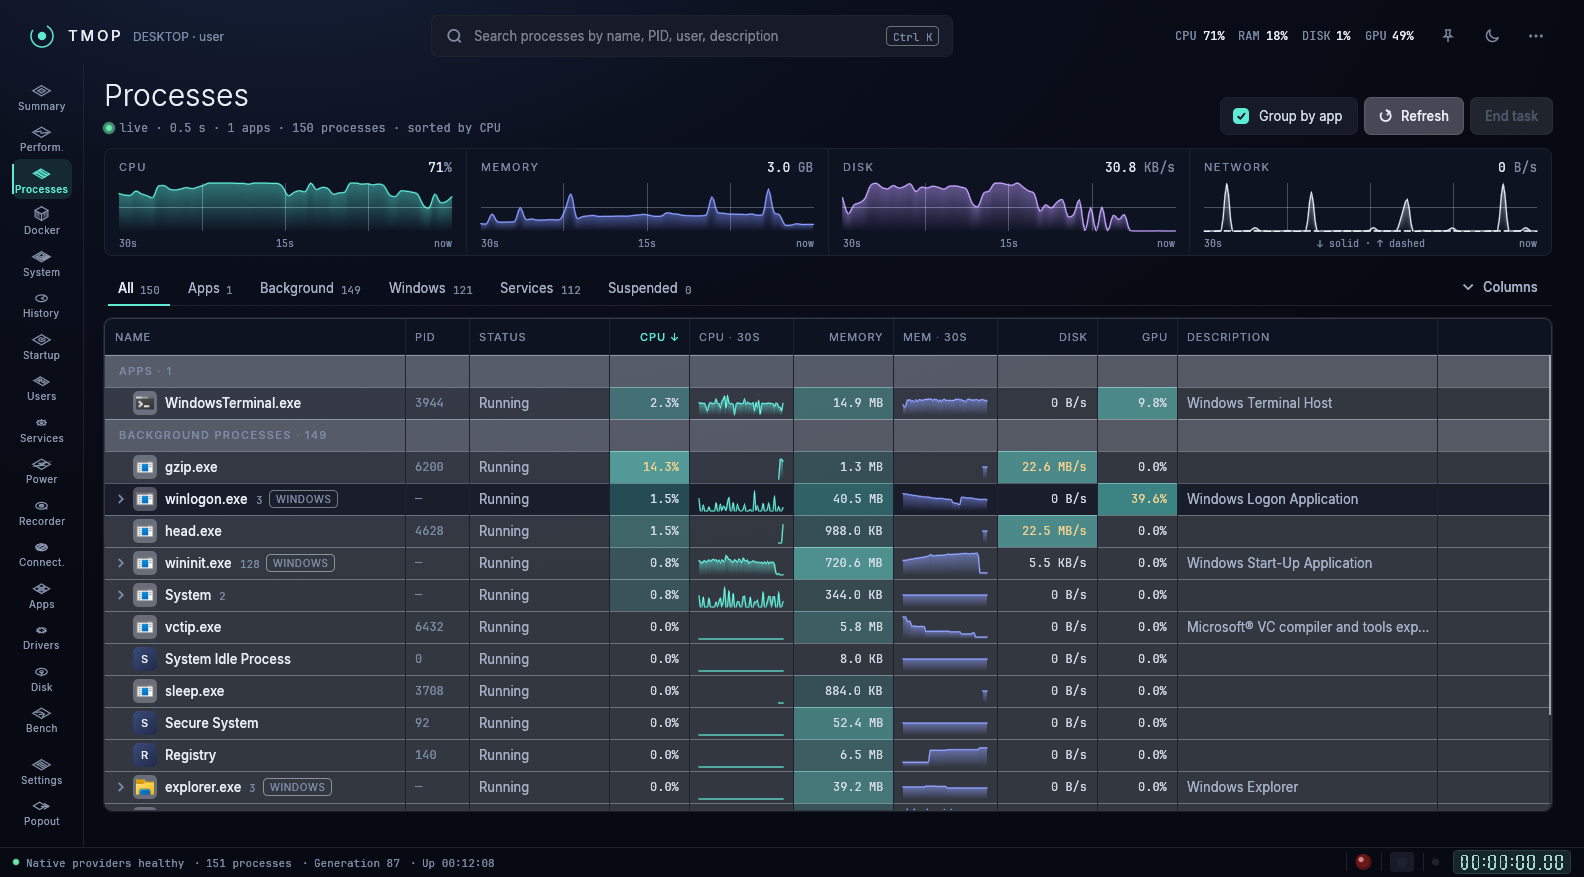
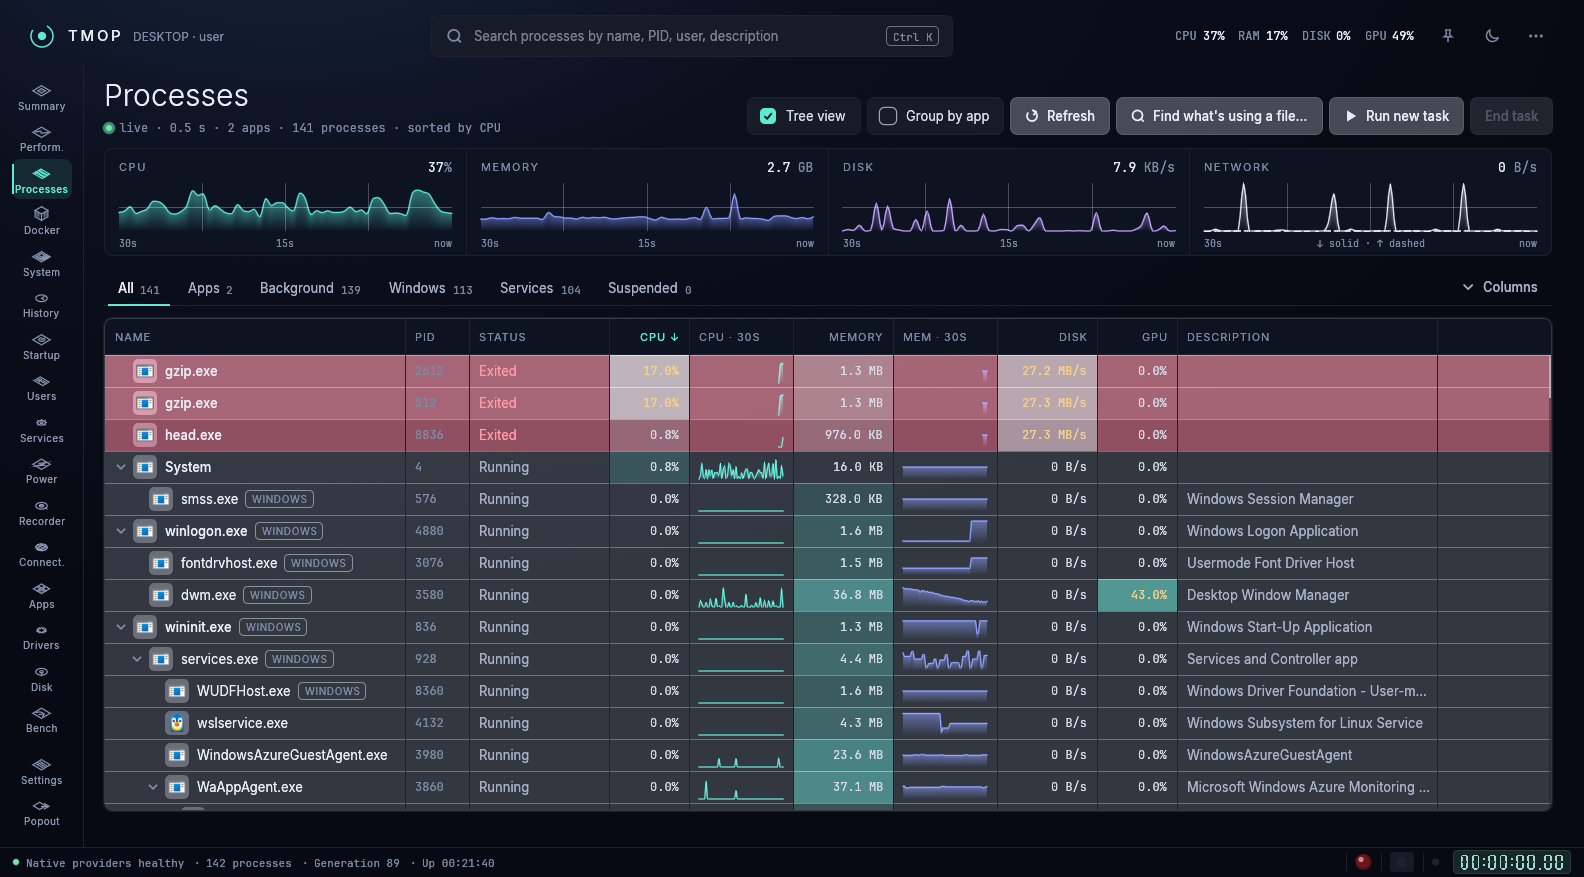
Docs: refreshed screenshots for 0.16 (tree view, Startup apps, Alerts)
Taken by the Screenshots workflow on GitHub runners (run 45043443056).
Closes #142

Claude-Session: https://claude.ai/code/session_015qfk8e8Kenbj2hUnEDBh3T

diff --git a/docs/index.html b/docs/index.html
@@ -445,7 +445,7 @@
           <div class="t"><h3>Watch performance live</h3><p>Graphs for every processor core, memory, disks, network and graphics card.</p></div>
         </div>
         <div class="feature">
-          <div class="img"><img src="screenshots/processes.png" loading="lazy" alt="List of running programs"></div>
+          <div class="img"><img src="screenshots/processes.png" loading="lazy" alt="Processes page in tree view with exited processes highlighted in red, plus Find what's using a file and Run new task buttons"></div>
           <div class="t"><h3>Find and close programs</h3><p>See what uses your PC. Right-click a program that hangs and choose <i>End task</i>.</p></div>
         </div>
         <div class="feature">

diff --git a/README.md b/README.md
@@ -53,9 +53,11 @@ curl -fsSL https://tekikaito.github.io/tmop/install.sh | sh
 
 | See your computer's performance live | Find and close programs |
 |---|---|
-| ![Performance graphs](docs/screenshots/performance.png) | ![List of running programs](docs/screenshots/processes.png) |
+| ![Performance graphs](docs/screenshots/performance.png) | ![The Processes page in tree view, with exited processes highlighted in red and the Find what's using a file and Run new task buttons](docs/screenshots/processes.png) |
 | **Test how fast your computer is** | **Keep a small monitor on your desktop** |
 | ![Speed test results](docs/screenshots/benchmarks.png) | ![Small monitor window](docs/screenshots/popout.png) |
+| **See what starts with your computer** | **Get an alert when something runs hot** |
+| ![The Startup apps page listing three startup entries](docs/screenshots/startup.png) | ![The Alerts card in Settings: CPU, memory and temperature limits](docs/screenshots/settings-alerts.png) |
 
 - **Close a program that hangs:** go to *Processes*, right-click it and choose *End task*.
 - **See which program started which:** on *Processes*, tick *Tree view*. Each process sits under the one that started it; click the arrow, or press Left and Right, to fold a branch in or out. A process whose parent has exited (or whose parent's number now belongs to a newer process) starts a branch of its own. Sorting works among the processes of one branch, and the search box and the tabs above the list keep the processes that match together with the ones above them (shown faint, with every branch open). A folded process shows its own figures, not those of its branch. *Group by app* and *Tree view* are separate views: ticking one turns the other off. TMOP remembers the view; folded branches are forgotten when it closes.
